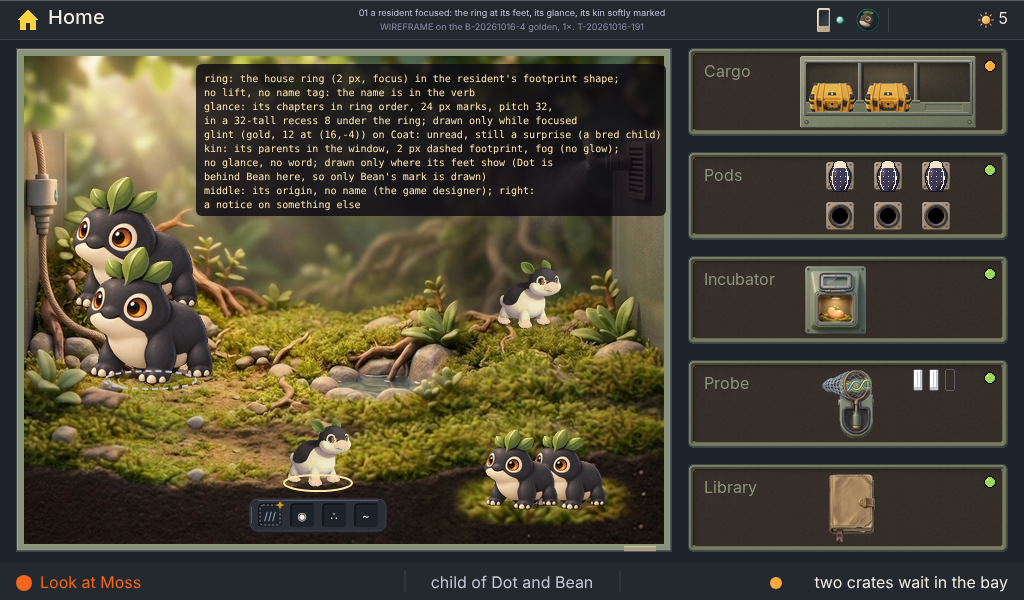
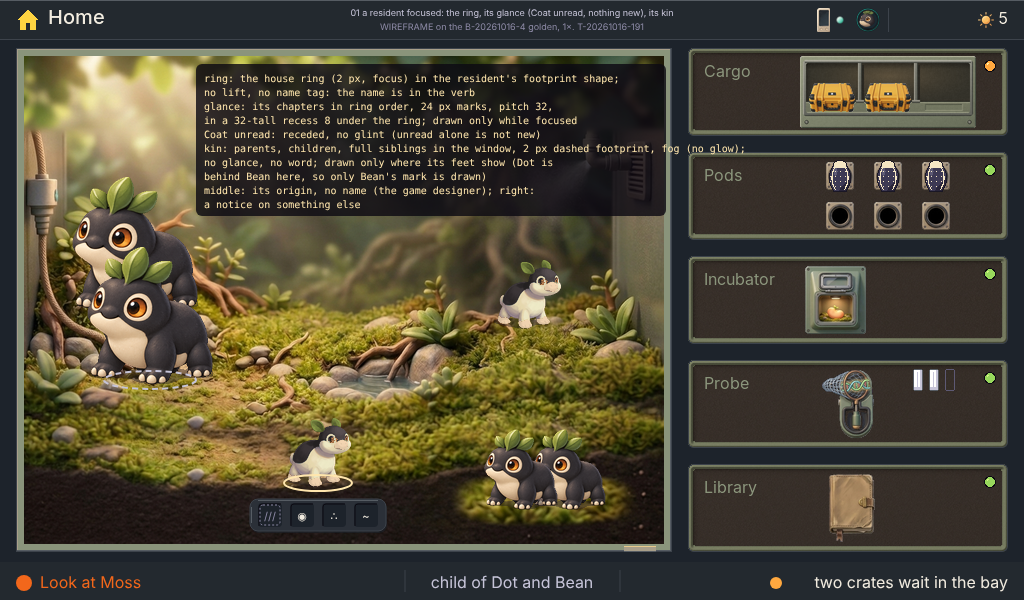
T-20261016-191: one gold glint for something new; ✓ lands on glint, else unread; siblings as kin

Changed region(s): [[0.1875, 0.21, 0.7188, 0.27], [0.3438, 0.0, 0.6562, 0.03]]

diff --git a/results/T-20261016-191/ui-ux.md b/results/T-20261016-191/ui-ux.md
@@ -38,9 +38,9 @@ The ring is one ring everywhere. Its shape follows the object's own outline (`06
 
 - **The same everywhere:** the colour, the 2 px stroke, the ring appearing at once on a move with no slide between targets, and ✓ doing what the bottom line says.
 - **The modules:** their rings move from radius 6 to the guide's ring. T-192 fixes the column's geometry, so the change lands there.
-- **Kin is not focus.** While a resident holds the ring, its parents and children in the window get a 2 px dashed footprint in fog, with no glance, no glow and no word.
+- **Kin is not focus.** While a resident holds the ring, its kin in the window (below) get a 2 px dashed footprint in fog, with no glance, no glow and no word.
   - A kin mark is drawn only where the relative's feet show; it is never drawn across another mibi (in `01`, Dot is behind Bean, so only Bean's mark is drawn).
-  - The genome engineer rules on which relations count (parents and children are my proposal; siblings are theirs to rule on).
+  - **Relations** (the genome engineer, `results/T-20261016-191/genome-engineer.md` §3; the creative director's call 4): parents, children and full siblings present in the window, all in the same unlabelled dashed mark. Which relation it is, and the sibling warning, belong to the Cross screen.
   - **Paint** (the art director, `results/T-20261016-191/art-director.md`): the ring and the kin mark are drawn under the resident's sprite, so the feet stay in front, each with a 1 px `ground` keyline outside it. Kin dashes are about 4 px. The keyline is what makes both read on lit moss. This answers my wireframe's "barely reads".
 
 ## 3. The glance
@@ -49,18 +49,22 @@ The ring is one ring everywhere. Its shape follows the object's own outline (`06
 - **Size:** 24 px marks (the guide's 24 tier, since meaning rides on the mark) with a gap of 8. The recess is 32 tall, padded 8 at the sides and 4 above and below, radius 8.
   - S01 (4 chapters) is 128 wide.
   - S03 (8 chapters, the most) is 264 wide.
-- **States:** read, unread (a dotted edge, never its content) and sealed (slats).
-- **The glint** (the four-point glint in gold, `#d89b14`, 12 × 12 at (16, −4) of the emblem, as on Create; one per chapter; mint would read as "changed by you") marks a chapter that is unread (a bred child's surprise), or one that **changed since the player last looked**. Only the self-changing traits can change: Glow (S03), Basking (S15) and Phase (S16), as a partner. A Loika's chapters never glint for a change.
+- **States:** read (bright `bone`), unread (receded to `fog` by value, so it reads as "not yet" at 1× without the dotted edge doing the work; never its content; the art director paints the value) and sealed (slats).
+- **The glint: one glint, gold, one meaning, "something new here"** (the four-point glint, `#d89b14`, 12 × 12 at (16, −4) of the emblem, as on Create; at most one per chapter). It fires only when:
+  - a **read** chapter's `seen` key differs from its current key: newly read elsewhere, or a self-changing mark moved (Glow S03, Basking S15, Phase S16, as a partner; a Loika's chapters never change); or
+  - the code's own `glint` rule says this mibi carries a look the species' guide hasn't seen.
+
+  **It never fires for unread alone**: an unread chapter is not evidence that anything is new (the genome engineer, §2). There is no second, mint glint.
   - The glint makes one pass when the glance appears, then rests lit. The timing is per guide §9.
   - The glint must stay distinct from a first's mark.
-  - It clears when that chapter is read, or when the change has been seen up close (`05`).
+  - It clears when the chapter's current key has been on screen up close (Habitat, the genome tree or the Library entry), which sets `seen` (`05`).
 - **Placement, applied in order:**
   1. Centred on the footprint, 8 below the ring.
   2. If its bottom would pass y 536 (the glass less 8), it sits above the resident's box instead, 8 over its head (`03`, a founder with nothing new, so no glint).
   3. It is clamped inside the glass, 8 from each side (x 32 to 656).
   4. It may cross another resident, but never the focused one.
 - **Life:** the glance is drawn only while a resident holds the ring and is gone the moment the ring leaves. Nothing stays on the window.
-- **No glint anywhere:** the marks still show, quiet. The depth is visible even when nothing is new.
+- **No glint anywhere** (the common case, e.g. `01`: Moss's Coat unread, nothing new): the marks still show, quiet. An unread mark, receded, is the invitation.
 - **How it sits on the painting** (the art director, `results/T-20261016-191/art-director.md`, proofs `glance-painted-moss.png` and `glance-painted-bed.png`):
   - an opaque `panel` pane with a `hairline` edge and a `bevel` lip, and no light outline;
   - each mark in its own `ground` well, never on a cream tile;
@@ -83,7 +87,10 @@ The ring is one ring everywhere. Its shape follows the object's own outline (`06
 
 ## 5. ✓ goes down
 
-- **Where it lands:** ✓ **Look at {name}** opens the Habitat up close on that mibi, as today. Focus lands on **the chapter plate that glinted** (the first in ring order if several glinted), not on the resident. With no glint, focus lands on the resident, as today.
+- **Where it lands:** ✓ **Look at {name}** opens the Habitat up close on that mibi, as today. Focus lands, in this order:
+  1. on the **first glinting chapter plate** in ring order;
+  2. else on the **first unread chapter plate**, whose card verb ("Read Coat ◆ 1") is the invitation (`04`);
+  3. else on the resident, as today.
   - **Change:** `habitat.json focus.entry.homeResident`.
 - **One press:** the player lands on the mechanic itself, and the card's own verb is waiting (`04`: ✓ Read Coat ◆ 1).
 - **The screen change:** the title cross-fades and the stage cuts, as any room change from Home (guide §9). No carry is added; the matching marks do the continuity.
@@ -98,8 +105,8 @@ The ring is one ring everywhere. Its shape follows the object's own outline (`06
 ## 7. The gate, as I read it
 
 1. **At rest:** the room focus draws nothing on the window. A glance appears only on a resident's focus.
-2. **Within two seconds:** the eye is already on the resident when the glance appears, and the glint passes once on arrival.
-3. **One press:** ✓ from the focused resident lands on the glinting chapter.
+2. **Within two seconds:** the eye is already on the resident when the glance appears. A glint passes once on arrival; with no glint, the unread mark's receded value carries "not yet read" (the art director's value step).
+3. **One press:** ✓ from the focused resident lands on the glinting chapter, else the first unread one. A bred child with nothing new still lands on a mechanic.
 
 Judge it in the device sheet with `01`, `04` and `05` side by side.
 
@@ -107,11 +114,9 @@ Judge it in the device sheet with `01`, `04` and `05` side by side.
 
 - **The game designer:** answered. The origin line, without the name (§4).
 - **The genome engineer:**
-  - That "changed since last looked" can be known per mibi and per chapter (it needs a seen mark).
-  - The kin relations to show.
-  - That every mark shows only what is read.
-- **The art director:**
-  - The glance's ground on the painting.
-  - The kin mark's paint.
-  - Whether the footprint ring reads on every ground: moss, bed and soil.
+  - Answered (`results/T-20261016-191/genome-engineer.md`): the `seen` record, the kin set and the truth table. The glint is gold (the creative director's call 1).
+- **The art director:** the ground, the kin mark and the ring on every ground are answered. Open, per the creative director's round:
+  - the read and unread value step at 1×;
+  - the moss proof repainted with no glint on Coat;
+  - one frame where a glint is true (a read S03 Glow mark that moved).
 - **Order:** this is built after T-190's look, since the glance sits on individuals.
